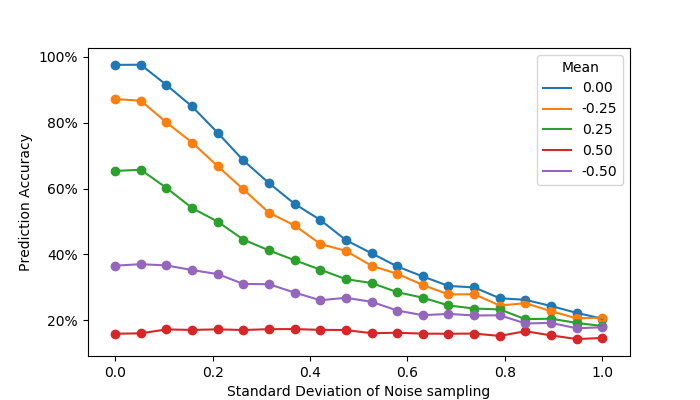
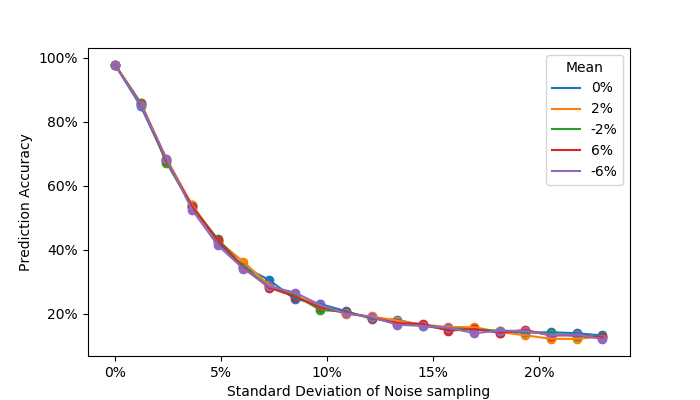
Remade noise plot. Preprocessing after adding noise

diff --git a/learn/Q8_noise.py b/learn/Q8_noise.py
@@ -25,9 +25,6 @@ ANGLES_TO_ROTATE = [5, 10, 15, 45, -5, -10, -15, -45]
 
 from utils.preprocessing import *
 from functools import partial
-dataset.apply(apply_mean_centering)
-dataset.apply(apply_unit_distance_normalization)
-dataset.apply(clean_repeat_points)
 
 #%% Load Model
 from keras.models import load_model
@@ -39,8 +36,8 @@ model = load_model(TRAINED_MODEL)
 import numpy as np
 from utils.research_preprocessing import add_noise
 
-MEANS_TO_TRY = [0.0, -0.25, 0.25, 0.5, -0.5]
-STD_TO_TRY = np.linspace(0.0, 1.0, 20)
+MEANS_TO_TRY = [0.0, 100, -100, 250, -250]
+STD_TO_TRY = np.linspace(0.0, 1000, 20)
 
 scores = {}
 
@@ -49,6 +46,9 @@ for mean in MEANS_TO_TRY:
     for std in STD_TO_TRY:
         curr = dataset.copy()
         curr.apply(partial(add_noise, mean=mean, std=std))
+        curr.apply(apply_mean_centering)
+        curr.apply(apply_unit_distance_normalization)
+        curr.apply(clean_repeat_points)
         curr.apply(partial(spline_interpolate_and_resample, num_samples=NUM_SAMPLES))
         curr.expand(reverse_digit_sequence)
         X_train = np.array(curr.train_data)
@@ -59,25 +59,54 @@ for mean in MEANS_TO_TRY:
         print("mean/std %.2f (+/- %.3f),   acc: %.3f%%" % (mean, std, score*100.0))
         scores[mean].append(score)
 
-
+import pickle
+with open(os.path.join("files", "pickles", "Q8_scores"), 'wb') as fd:
+    pickle.dump(scores, fd)
+    
 
 
 #%%
 import matplotlib.ticker as mtick
 import matplotlib.pyplot as plt
 
+drawing_pad_width = 5105.0
+drawing_pad_height = 3713.0
+drawing_area_root = np.sqrt(drawing_pad_width * drawing_pad_height)
+tried_std = ((np.array(STD_TO_TRY) / drawing_area_root) * 100.0)
+
 fig = plt.figure(1, (7,4))
 ax = fig.add_subplot(1,1,1)
 fmt = '%.0f%%' # Format you want the ticks, e.g. '40%'
 xticks = mtick.FormatStrFormatter(fmt)
+ax.xaxis.set_major_formatter(xticks)
 ax.yaxis.set_major_formatter(xticks)
 plt.xlabel("Standard Deviation of Noise sampling")
 plt.ylabel("Prediction Accuracy")
 
 for mean in MEANS_TO_TRY:
     percentages = np.array(scores[mean]) * 100.0
-    ax.plot(STD_TO_TRY, percentages, label="%.2f"%mean)
-    ax.scatter(STD_TO_TRY, percentages)
+    ax.plot(tried_std, percentages, label="%.0f%%"%((mean/drawing_area_root)*100.0))
+    ax.scatter(tried_std, percentages)
     
 plt.legend(title="Mean")
+
+
+#%%
+import matplotlib.pyplot as plt
+import numpy as np
+import matplotlib.mlab as mlab
+
+means = [0.0]
+stds = np.linspace(0.0, 1000, 5)
+
+for mean in means:
+    for std in stds:
+        sigma = std
+        x = np.linspace(mean - 3*sigma, mean + 3*sigma, 100)
+        plt.plot(x,mlab.normpdf(x, mean, sigma), label=str(std))
+        plt.show()
+
+plt.xlabel("Mean")
+plt.ylabel("Value of Noise")
+plt.legend(title="Standard Deviation")
 
